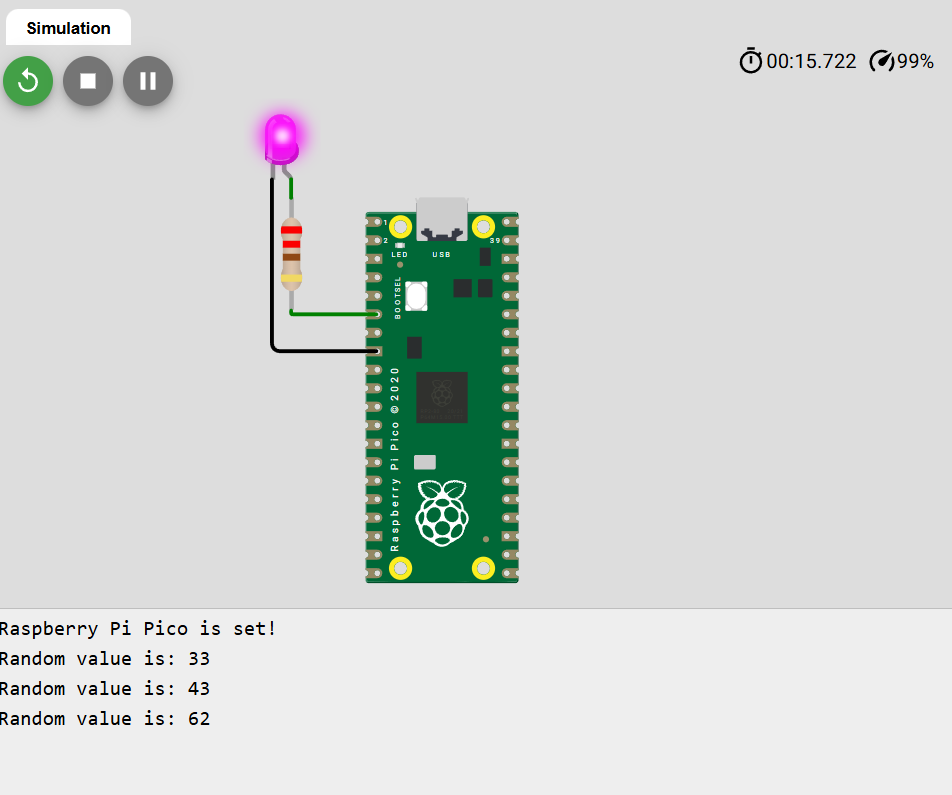
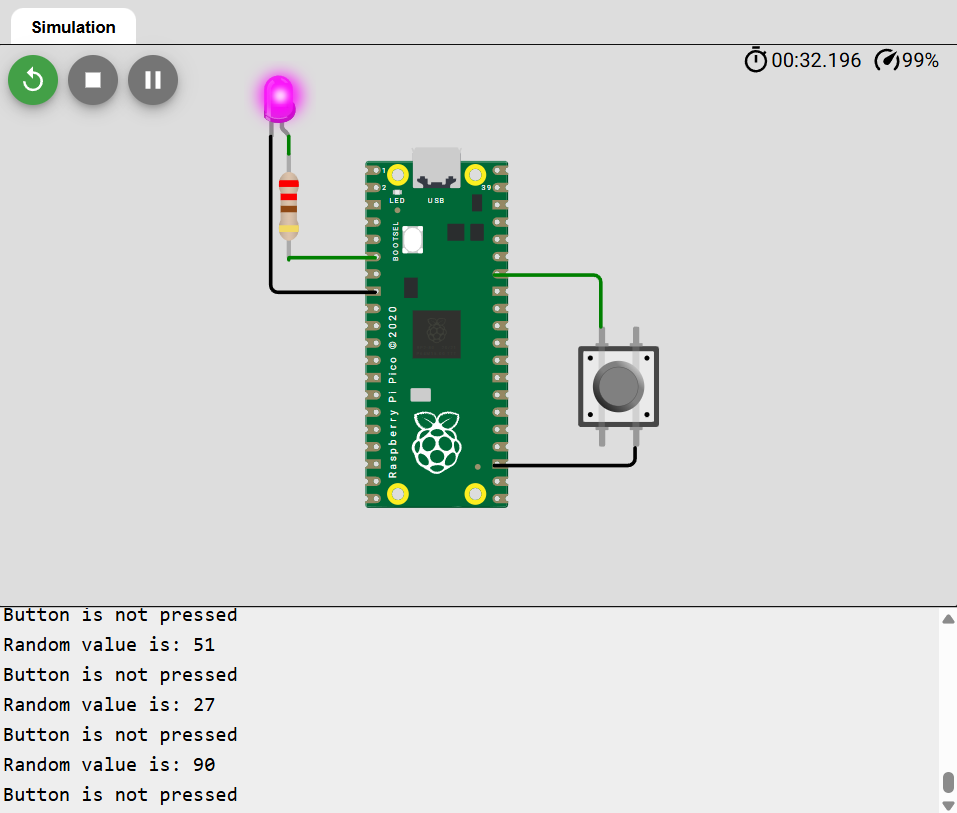
Add button to turn on LED (#3)

diff --git a/README.md b/README.md
@@ -1,6 +1,6 @@
 # Description
 Basic Arduino project for Raspberry Pi Pico.
-Turns ON LED on random value higher than threshold.
+Turns ON LED on random value higher than threshold or if button is pressed.
 
 # Credits
 I used [Wokwi](https://wokwi.com/) to simulate the hardware.
